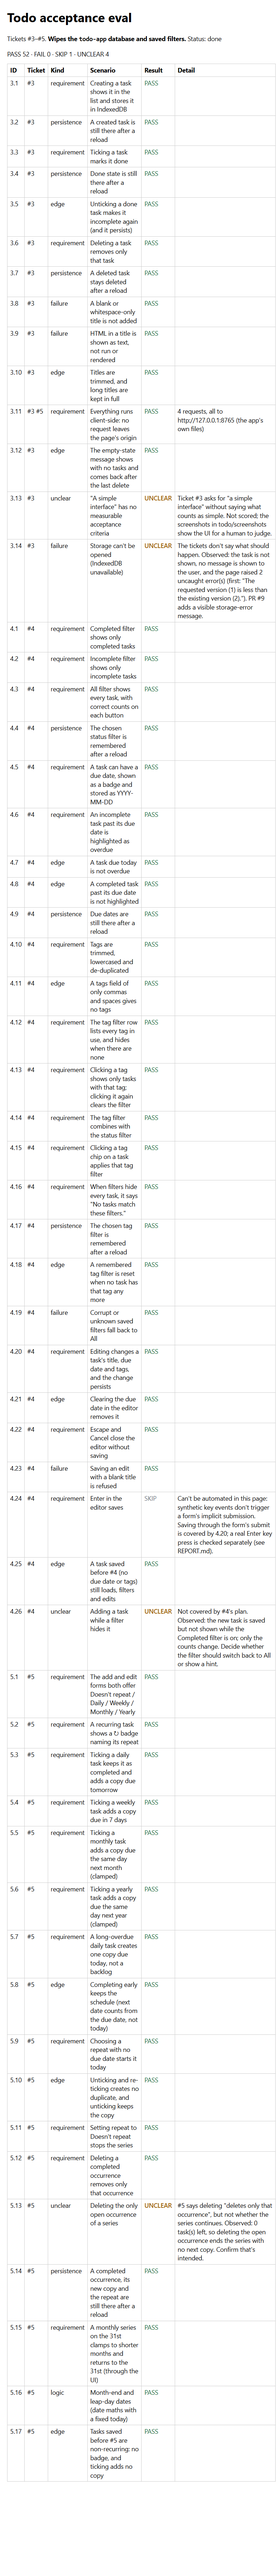
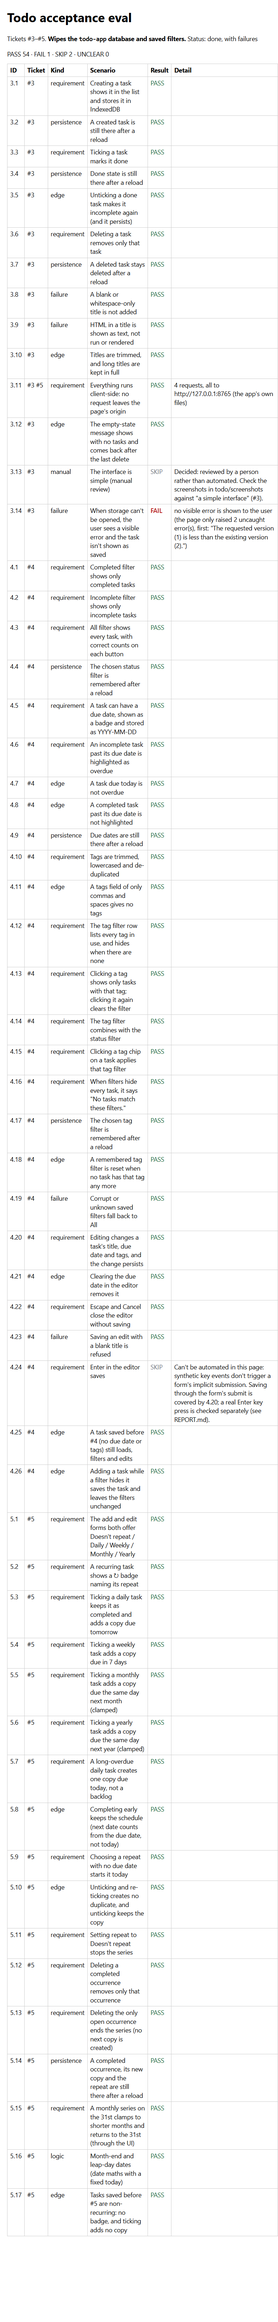
Resolve the unclear acceptance cases and rerun with PR #9 (#3, #4, #5)
- 3.13: interface simplicity is a manual review (SKIP, not scored)
- 3.14: a storage failure must show a visible error (fails on main, passes with PR #9)
- 4.26: adding a task leaves the filters unchanged
- 5.13: deleting the only open occurrence ends the series

Results: main 54 passed / 1 failed / 2 skipped / 0 unclear; PR #9 55 / 0 / 2 / 0.

diff --git a/todo/eval/acceptance.js b/todo/eval/acceptance.js
@@ -381,14 +381,16 @@ scenario("3.12", "#3", "edge", "The empty-state message shows with no tasks and 
   ok(visible($("#empty")), "empty-state message not back after deleting the last task");
 });
 
-scenario("3.13", "#3", "unclear", '"A simple interface" has no measurable acceptance criteria', async () =>
-  unclear('Ticket #3 asks for "a simple interface" without saying what counts as simple. Not scored; the screenshots in todo/screenshots show the UI for a human to judge.'));
+// Decision (27 Oct): interface simplicity is reviewed by a person, not scored here.
+scenario("3.13", "#3", "manual", 'The interface is simple (manual review)', async () =>
+  skip('Decided: reviewed by a person rather than automated. Check the screenshots in todo/screenshots against "a simple interface" (#3).'));
 
+// Decision (27 Oct): a storage failure must show the user a visible error.
 scenario(
   "3.14",
   "#3",
   "failure",
-  "Storage can't be opened (IndexedDB unavailable)",
+  "When storage can't be opened, the user sees a visible error and the task isn't shown as saved",
   async () => {
     unloadApp();
     await deleteDb();
@@ -407,14 +409,20 @@ scenario(
       await loadApp({ waitRender: false });
       $("#new-task-title").value = "Will this save?";
       $("#new-task").requestSubmit();
-      await waitFor(() => frameErrors.length > 0, "the storage error to surface");
-      const message = /error|could not|couldn't|failed|unavailable|storage/i.test(doc.body.innerText);
-      const shown = titles().includes("Will this save?");
-      return unclear(
-        `The tickets don't say what should happen. Observed: the task ${shown ? "is" : "is not"} shown, ` +
-          `${message ? "a" : "no"} message is shown to the user, and the page raised ${frameErrors.length} uncaught error(s) ` +
-          `(first: "${frameErrors[0]}"). PR #9 adds a visible storage-error message.`
-      );
+      await waitFor(() => frameErrors.length > 0, "the storage failure to happen");
+      const errorShown = () =>
+        $$('[role="alert"]').some((e) => !e.hidden && e.textContent.trim()) ||
+        /could not|couldn't|failed|unavailable|blocking storage/i.test(doc.body.innerText);
+      let visibleError = true;
+      try {
+        await waitFor(errorShown, "a visible error message", 2000);
+      } catch {
+        visibleError = false;
+      }
+      ok(!titles().includes("Will this save?"), "the unsaved task is shown as if it had been saved");
+      ok(visibleError, `no visible error is shown to the user (the page only raised ${frameErrors.length} uncaught error(s), first: "${frameErrors[0]}")`);
+      const text = $$('[role="alert"]').find((e) => !e.hidden)?.textContent.trim();
+      return { status: "PASS", detail: text ? `Shown: "${text}"` : "" };
     } finally {
       unloadApp();
       await deleteDb();
@@ -641,18 +649,19 @@ scenario("4.25", "#4", "edge", "A task saved before #4 (no due date or tags) sti
   eq((await dbAll())[0].tags, ["old"], "stored tags after edit");
 });
 
-scenario("4.26", "#4", "unclear", "Adding a task while a filter hides it", async () => {
+// Decision (27 Oct): adding a task leaves the chosen filters as they are.
+scenario("4.26", "#4", "edge", "Adding a task while a filter hides it saves the task and leaves the filters unchanged", async () => {
   await reset();
-  await add("Done one");
+  await add("Done one", { tags: "work" });
   await toggle("Done one");
   await showStatus("completed");
-  await add("New one");
-  const stored = byTitle(await dbAll(), "New one").length === 1;
-  const shown = titles().includes("New one");
-  return unclear(
-    `Not covered by #4's plan. Observed: the new task is ${stored ? "saved" : "NOT saved"} but ${shown ? "shown" : "not shown"} ` +
-      `while the Completed filter is on; only the counts change. Decide whether the filter should switch back to All or show a hint.`
-  );
+  await clickTagFilter("work");
+  await add("New one", { tags: "home" });
+  eq(byTitle(await dbAll(), "New one").length, 1, "stored copies of the new task");
+  eq(JSON.parse(localStorage.getItem(FILTERS_KEY)), { status: "completed", tag: "work" }, "saved filters");
+  eq($('[data-status="completed"]').getAttribute("aria-pressed"), "true", "Completed still pressed");
+  eq(titles(), ["Done one"], "list (the new task stays hidden by the filters)");
+  eq(countOf("all"), 2, "All count");
 });
 
 // ===== #5: recurring tasks =====
@@ -747,15 +756,13 @@ scenario("5.12", "#5", "requirement", "Deleting a completed occurrence removes o
   eq(left.map((t) => ({ done: t.done, dueDate: t.dueDate })), [{ done: false, dueDate: dayOffset(7) }], "remaining occurrences");
 });
 
-scenario("5.13", "#5", "unclear", "Deleting the only open occurrence of a series", async () => {
+// Decision (27 Oct): deleting the open occurrence ends the series.
+scenario("5.13", "#5", "requirement", "Deleting the only open occurrence ends the series (no next copy is created)", async () => {
   await reset();
   await add("Rent", { due: dayOffset(0), repeat: "monthly" });
   await remove("Rent");
-  const left = byTitle(await dbAll(), "Rent").length;
-  return unclear(
-    `#5 says deleting "deletes only that occurrence", but not whether the series continues. Observed: ${left} task(s) left, ` +
-      `so deleting the open occurrence ends the series with no next copy. Confirm that's intended.`
-  );
+  eq(byTitle(await dbAll(), "Rent").length, 0, "tasks titled 'Rent' after deleting");
+  eq(titles(), [], "list");
 });
 
 scenario("5.14", "#5", "persistence", "A completed occurrence, its new copy and the repeat are still there after a reload", async () => {

diff --git a/todo/eval/REPORT.md b/todo/eval/REPORT.md
@@ -20,7 +20,7 @@ Then open http://localhost:8000/eval/acceptance.html. **It wipes the `todo-app` 
 - **Four outcomes:**
   - **PASS / FAIL:** scored.
   - **SKIP:** can't be automated here; the reason is given.
-  - **UNCLEAR:** the tickets don't define the expected behaviour. The eval records what the app does and flags it for a decision rather than guessing.
+  - **UNCLEAR:** the tickets don't define the expected behaviour. The eval records what the app does and flags it for a decision rather than guessing. All four unclear cases from the first run have since been decided (see [Decisions](#decisions)), so none are left.
 
 ## Does the eval catch bugs?
 
@@ -29,101 +29,117 @@ I broke the app on purpose (temporarily, not committed) and reran the eval in a 
 - daily repeats stepping 2 days;
 - tasks due today marked overdue.
 
-It caught all three: 5 scenarios failed (4.7, 4.10, 4.20, 5.3, 5.7). With the app restored, it went back to 52 passed and 0 failed.
+It caught all three: 5 scenarios failed (4.7, 4.10, 4.20, 5.3, 5.7). With the app restored, it went back to 0 failed. (This was before the decisions below, when 3.14 was still flagged as unclear.)
 
 ## Checked by hand: Enter key (4.24)
 
 Synthetic key events don't submit forms, so I checked this in Chrome with real key presses through chrome-devtools. Pressing Enter in the add form added the task, and pressing Enter in the edit form saved the new title.
 
-## Results
-Run 2026-10-27T05:29:24Z in Chrome/154.0.0.0, 5.1 s.
+## Decisions
 
-**52 passed · 0 failed · 1 skipped · 4 unclear** (57 scenarios)
+The first run flagged four requirements as unclear. They were decided on 27 Oct 2026, and the eval now checks them:
 
-### Passed (52)
-
-| ID | Ticket | Kind | Scenario | Detail |
-|---|---|---|---|---|
-| 3.1 | [#3](https://github.com/karachiwaladev/contour-jonas-oct-2026-eng-muneeb-hasan/issues/3) | requirement | Creating a task shows it in the list and stores it in IndexedDB |  |
-| 3.2 | [#3](https://github.com/karachiwaladev/contour-jonas-oct-2026-eng-muneeb-hasan/issues/3) | persistence | A created task is still there after a reload |  |
-| 3.3 | [#3](https://github.com/karachiwaladev/contour-jonas-oct-2026-eng-muneeb-hasan/issues/3) | requirement | Ticking a task marks it done |  |
-| 3.4 | [#3](https://github.com/karachiwaladev/contour-jonas-oct-2026-eng-muneeb-hasan/issues/3) | persistence | Done state is still there after a reload |  |
-| 3.5 | [#3](https://github.com/karachiwaladev/contour-jonas-oct-2026-eng-muneeb-hasan/issues/3) | edge | Unticking a done task makes it incomplete again (and it persists) |  |
-| 3.6 | [#3](https://github.com/karachiwaladev/contour-jonas-oct-2026-eng-muneeb-hasan/issues/3) | requirement | Deleting a task removes only that task |  |
-| 3.7 | [#3](https://github.com/karachiwaladev/contour-jonas-oct-2026-eng-muneeb-hasan/issues/3) | persistence | A deleted task stays deleted after a reload |  |
-| 3.8 | [#3](https://github.com/karachiwaladev/contour-jonas-oct-2026-eng-muneeb-hasan/issues/3) | failure | A blank or whitespace-only title is not added |  |
-| 3.9 | [#3](https://github.com/karachiwaladev/contour-jonas-oct-2026-eng-muneeb-hasan/issues/3) | failure | HTML in a title is shown as text, not run or rendered |  |
-| 3.10 | [#3](https://github.com/karachiwaladev/contour-jonas-oct-2026-eng-muneeb-hasan/issues/3) | edge | Titles are trimmed, and long titles are kept in full |  |
-| 3.11 | [#3](https://github.com/karachiwaladev/contour-jonas-oct-2026-eng-muneeb-hasan/issues/3) [#5](https://github.com/karachiwaladev/contour-jonas-oct-2026-eng-muneeb-hasan/issues/5) | requirement | Everything runs client-side: no request leaves the page's origin | 4 requests, all to http://127.0.0.1:8765 (the app's own files) |
-| 3.12 | [#3](https://github.com/karachiwaladev/contour-jonas-oct-2026-eng-muneeb-hasan/issues/3) | edge | The empty-state message shows with no tasks and comes back after the last delete |  |
-| 4.1 | [#4](https://github.com/karachiwaladev/contour-jonas-oct-2026-eng-muneeb-hasan/issues/4) | requirement | Completed filter shows only completed tasks |  |
-| 4.2 | [#4](https://github.com/karachiwaladev/contour-jonas-oct-2026-eng-muneeb-hasan/issues/4) | requirement | Incomplete filter shows only incomplete tasks |  |
-| 4.3 | [#4](https://github.com/karachiwaladev/contour-jonas-oct-2026-eng-muneeb-hasan/issues/4) | requirement | All filter shows every task, with correct counts on each button |  |
-| 4.4 | [#4](https://github.com/karachiwaladev/contour-jonas-oct-2026-eng-muneeb-hasan/issues/4) | persistence | The chosen status filter is remembered after a reload |  |
-| 4.5 | [#4](https://github.com/karachiwaladev/contour-jonas-oct-2026-eng-muneeb-hasan/issues/4) | requirement | A task can have a due date, shown as a badge and stored as YYYY-MM-DD |  |
-| 4.6 | [#4](https://github.com/karachiwaladev/contour-jonas-oct-2026-eng-muneeb-hasan/issues/4) | requirement | An incomplete task past its due date is highlighted as overdue |  |
-| 4.7 | [#4](https://github.com/karachiwaladev/contour-jonas-oct-2026-eng-muneeb-hasan/issues/4) | edge | A task due today is not overdue |  |
-| 4.8 | [#4](https://github.com/karachiwaladev/contour-jonas-oct-2026-eng-muneeb-hasan/issues/4) | edge | A completed task past its due date is not highlighted |  |
-| 4.9 | [#4](https://github.com/karachiwaladev/contour-jonas-oct-2026-eng-muneeb-hasan/issues/4) | persistence | Due dates are still there after a reload |  |
-| 4.10 | [#4](https://github.com/karachiwaladev/contour-jonas-oct-2026-eng-muneeb-hasan/issues/4) | requirement | Tags are trimmed, lowercased and de-duplicated |  |
-| 4.11 | [#4](https://github.com/karachiwaladev/contour-jonas-oct-2026-eng-muneeb-hasan/issues/4) | edge | A tags field of only commas and spaces gives no tags |  |
-| 4.12 | [#4](https://github.com/karachiwaladev/contour-jonas-oct-2026-eng-muneeb-hasan/issues/4) | requirement | The tag filter row lists every tag in use, and hides when there are none |  |
-| 4.13 | [#4](https://github.com/karachiwaladev/contour-jonas-oct-2026-eng-muneeb-hasan/issues/4) | requirement | Clicking a tag shows only tasks with that tag; clicking it again clears the filter |  |
-| 4.14 | [#4](https://github.com/karachiwaladev/contour-jonas-oct-2026-eng-muneeb-hasan/issues/4) | requirement | The tag filter combines with the status filter |  |
-| 4.15 | [#4](https://github.com/karachiwaladev/contour-jonas-oct-2026-eng-muneeb-hasan/issues/4) | requirement | Clicking a tag chip on a task applies that tag filter |  |
-| 4.16 | [#4](https://github.com/karachiwaladev/contour-jonas-oct-2026-eng-muneeb-hasan/issues/4) | requirement | When filters hide every task, it says "No tasks match these filters." |  |
-| 4.17 | [#4](https://github.com/karachiwaladev/contour-jonas-oct-2026-eng-muneeb-hasan/issues/4) | persistence | The chosen tag filter is remembered after a reload |  |
-| 4.18 | [#4](https://github.com/karachiwaladev/contour-jonas-oct-2026-eng-muneeb-hasan/issues/4) | edge | A remembered tag filter is reset when no task has that tag any more |  |
-| 4.19 | [#4](https://github.com/karachiwaladev/contour-jonas-oct-2026-eng-muneeb-hasan/issues/4) | failure | Corrupt or unknown saved filters fall back to All |  |
-| 4.20 | [#4](https://github.com/karachiwaladev/contour-jonas-oct-2026-eng-muneeb-hasan/issues/4) | requirement | Editing changes a task's title, due date and tags, and the change persists |  |
-| 4.21 | [#4](https://github.com/karachiwaladev/contour-jonas-oct-2026-eng-muneeb-hasan/issues/4) | edge | Clearing the due date in the editor removes it |  |
-| 4.22 | [#4](https://github.com/karachiwaladev/contour-jonas-oct-2026-eng-muneeb-hasan/issues/4) | requirement | Escape and Cancel close the editor without saving |  |
-| 4.23 | [#4](https://github.com/karachiwaladev/contour-jonas-oct-2026-eng-muneeb-hasan/issues/4) | failure | Saving an edit with a blank title is refused |  |
-| 4.25 | [#4](https://github.com/karachiwaladev/contour-jonas-oct-2026-eng-muneeb-hasan/issues/4) | edge | A task saved before #4 (no due date or tags) still loads, filters and edits |  |
-| 5.1 | [#5](https://github.com/karachiwaladev/contour-jonas-oct-2026-eng-muneeb-hasan/issues/5) | requirement | The add and edit forms both offer Doesn't repeat / Daily / Weekly / Monthly / Yearly |  |
-| 5.2 | [#5](https://github.com/karachiwaladev/contour-jonas-oct-2026-eng-muneeb-hasan/issues/5) | requirement | A recurring task shows a ↻ badge naming its repeat |  |
-| 5.3 | [#5](https://github.com/karachiwaladev/contour-jonas-oct-2026-eng-muneeb-hasan/issues/5) | requirement | Ticking a daily task keeps it as completed and adds a copy due tomorrow |  |
-| 5.4 | [#5](https://github.com/karachiwaladev/contour-jonas-oct-2026-eng-muneeb-hasan/issues/5) | requirement | Ticking a weekly task adds a copy due in 7 days |  |
-| 5.5 | [#5](https://github.com/karachiwaladev/contour-jonas-oct-2026-eng-muneeb-hasan/issues/5) | requirement | Ticking a monthly task adds a copy due the same day next month (clamped) |  |
-| 5.6 | [#5](https://github.com/karachiwaladev/contour-jonas-oct-2026-eng-muneeb-hasan/issues/5) | requirement | Ticking a yearly task adds a copy due the same day next year (clamped) |  |
-| 5.7 | [#5](https://github.com/karachiwaladev/contour-jonas-oct-2026-eng-muneeb-hasan/issues/5) | requirement | A long-overdue daily task creates one copy due today, not a backlog |  |
-| 5.8 | [#5](https://github.com/karachiwaladev/contour-jonas-oct-2026-eng-muneeb-hasan/issues/5) | edge | Completing early keeps the schedule (next date counts from the due date, not today) |  |
-| 5.9 | [#5](https://github.com/karachiwaladev/contour-jonas-oct-2026-eng-muneeb-hasan/issues/5) | requirement | Choosing a repeat with no due date starts it today |  |
-| 5.10 | [#5](https://github.com/karachiwaladev/contour-jonas-oct-2026-eng-muneeb-hasan/issues/5) | edge | Unticking and re-ticking creates no duplicate, and unticking keeps the copy |  |
-| 5.11 | [#5](https://github.com/karachiwaladev/contour-jonas-oct-2026-eng-muneeb-hasan/issues/5) | requirement | Setting repeat to Doesn't repeat stops the series |  |
-| 5.12 | [#5](https://github.com/karachiwaladev/contour-jonas-oct-2026-eng-muneeb-hasan/issues/5) | requirement | Deleting a completed occurrence removes only that occurrence |  |
-| 5.14 | [#5](https://github.com/karachiwaladev/contour-jonas-oct-2026-eng-muneeb-hasan/issues/5) | persistence | A completed occurrence, its new copy and the repeat are still there after a reload |  |
-| 5.15 | [#5](https://github.com/karachiwaladev/contour-jonas-oct-2026-eng-muneeb-hasan/issues/5) | requirement | A monthly series on the 31st clamps to shorter months and returns to the 31st (through the UI) |  |
-| 5.16 | [#5](https://github.com/karachiwaladev/contour-jonas-oct-2026-eng-muneeb-hasan/issues/5) | logic | Month-end and leap-day dates (date maths with a fixed today) |  |
-| 5.17 | [#5](https://github.com/karachiwaladev/contour-jonas-oct-2026-eng-muneeb-hasan/issues/5) | edge | Tasks saved before #5 are non-recurring: no badge, and ticking adds no copy |  |
-
-### Failed (0)
-
-None.
-
-### Skipped (1)
-
-| ID | Ticket | Kind | Scenario | Detail |
-|---|---|---|---|---|
-| 4.24 | [#4](https://github.com/karachiwaladev/contour-jonas-oct-2026-eng-muneeb-hasan/issues/4) | requirement | Enter in the editor saves | Can't be automated in this page: synthetic key events don't trigger a form's implicit submission. Saving through the form's submit is covered by 4.20; a real Enter key press is checked separately (see REPORT.md). |
-
-### Unclear requirements (flagged, not scored) (4)
-
-| ID | Ticket | Kind | Scenario | Detail |
-|---|---|---|---|---|
-| 3.13 | [#3](https://github.com/karachiwaladev/contour-jonas-oct-2026-eng-muneeb-hasan/issues/3) | unclear | "A simple interface" has no measurable acceptance criteria | Ticket #3 asks for "a simple interface" without saying what counts as simple. Not scored; the screenshots in todo/screenshots show the UI for a human to judge. |
-| 3.14 | [#3](https://github.com/karachiwaladev/contour-jonas-oct-2026-eng-muneeb-hasan/issues/3) | failure | Storage can't be opened (IndexedDB unavailable) | The tickets don't say what should happen. Observed: the task is not shown, no message is shown to the user, and the page raised 2 uncaught error(s) (first: "The requested version (1) is less than the existing version (2)."). PR #9 adds a visible storage-error message. |
-| 4.26 | [#4](https://github.com/karachiwaladev/contour-jonas-oct-2026-eng-muneeb-hasan/issues/4) | unclear | Adding a task while a filter hides it | Not covered by #4's plan. Observed: the new task is saved but not shown while the Completed filter is on; only the counts change. Decide whether the filter should switch back to All or show a hint. |
-| 5.13 | [#5](https://github.com/karachiwaladev/contour-jonas-oct-2026-eng-muneeb-hasan/issues/5) | unclear | Deleting the only open occurrence of a series | #5 says deleting "deletes only that occurrence", but not whether the series continues. Observed: 0 task(s) left, so deleting the open occurrence ends the series with no next copy. Confirm that's intended. |
-
-## Unclear requirements (need a decision)
-
-| ID | Question | What the app does now |
+| ID | Decision | What the eval now checks |
 |---|---|---|
-| 3.13 | What counts as "a simple interface" (#3)? | Not measurable. Judge from the screenshots in `todo/screenshots/`. |
-| 3.14 | What should happen when storage can't be opened? | Nothing visible: the task isn't saved, there's no message, and the page throws uncaught errors. PR #9 adds a visible storage-error message. |
-| 4.26 | Adding a task while a filter hides it: should the filter reset? | The task is saved but stays hidden; only the counts change. |
-| 5.13 | Deleting the only open occurrence of a series: should the series continue? | It ends the series. No next copy is created. |
+| 3.13 | Interface simplicity is reviewed by a person. | Reported as SKIP (not scored), pointing to the screenshots in `todo/screenshots/`. |
+| 3.14 | A storage failure must show a visible error. | With IndexedDB unopenable, adding a task must show a visible message (a visible `role="alert"` element, or text like "couldn't" / "failed"), and must not show the task as if it had been saved. FAIL otherwise. |
+| 4.26 | Adding a task leaves the filters unchanged. | With Completed + a tag filter on, adding a task saves it, keeps both filters (on screen and in `localStorage`), keeps it hidden and updates the counts. |
+| 5.13 | Deleting the open occurrence ends the series. | After deleting the only occurrence of a monthly task, no task is left and no next copy is created. |
+
+## Results
+
+Run 2026-10-27T05:35Z in Chrome/154.0.0.0, each in a fresh isolated browser context, against two versions of the app:
+
+| App version | Passed | Failed | Skipped | Unclear |
+|---|---|---|---|---|
+| `main` (the app as merged for #3–#5) | 54 | **1** | 2 | 0 |
+| PR #9 (`factory/test-hardening` @ `2b7381b`, adds storage-error messages) | **55** | 0 | 2 | 0 |
+
+57 scenarios. The only difference is 3.14:
+- On `main`, a storage failure isn't shown to the user. The page only throws uncaught errors.
+- PR #9 shows *"Couldn't load your tasks. Your browser may be blocking storage. Reload the page to try again."* in its alert.
+
+PR #9's run logged only its own `Saving failed` / `Loading failed` errors from 3.14, plus a 404 for `/favicon.ico`.
+
+Screenshots: [`main`](../screenshots/eval-acceptance-results.png) · [PR #9](../screenshots/eval-acceptance-results-pr9.png)
+
+### Failed (1 on `main`, 0 on PR #9)
+
+| ID | Ticket | Kind | Scenario | Detail (`main`) |
+|---|---|---|---|---|
+| 3.14 | [#3](https://github.com/karachiwaladev/contour-jonas-oct-2026-eng-muneeb-hasan/issues/3) | failure | When storage can't be opened, the user sees a visible error and the task isn't shown as saved | no visible error is shown to the user (the page only raised 2 uncaught error(s), first: "The requested version (1) is less than the existing version (2).") |
+
+### Skipped (2, both versions)
+
+| ID | Ticket | Kind | Scenario | Detail |
+|---|---|---|---|---|
+| 3.13 | [#3](https://github.com/karachiwaladev/contour-jonas-oct-2026-eng-muneeb-hasan/issues/3) | manual | The interface is simple (manual review) | Decided: reviewed by a person rather than automated. Check the screenshots in todo/screenshots against "a simple interface" (#3). |
+| 4.24 | [#4](https://github.com/karachiwaladev/contour-jonas-oct-2026-eng-muneeb-hasan/issues/4) | requirement | Enter in the editor saves | Can't be automated in this page: synthetic key events don't trigger a form's implicit submission. Saving through the form's submit is covered by 4.20; a real Enter key press is checked separately (see above). |
+
+### Unclear (0)
+
+None. All four have been decided (see [Decisions](#decisions)).
+
+### Passed (54 on `main`, 55 on PR #9)
+
+All the scenarios not listed above passed on both versions, and 3.14 passed on PR #9 as well:
+
+| ID | Ticket | Kind | Scenario |
+|---|---|---|---|
+| 3.1 | [#3](https://github.com/karachiwaladev/contour-jonas-oct-2026-eng-muneeb-hasan/issues/3) | requirement | Creating a task shows it in the list and stores it in IndexedDB |
+| 3.2 | [#3](https://github.com/karachiwaladev/contour-jonas-oct-2026-eng-muneeb-hasan/issues/3) | persistence | A created task is still there after a reload |
+| 3.3 | [#3](https://github.com/karachiwaladev/contour-jonas-oct-2026-eng-muneeb-hasan/issues/3) | requirement | Ticking a task marks it done |
+| 3.4 | [#3](https://github.com/karachiwaladev/contour-jonas-oct-2026-eng-muneeb-hasan/issues/3) | persistence | Done state is still there after a reload |
+| 3.5 | [#3](https://github.com/karachiwaladev/contour-jonas-oct-2026-eng-muneeb-hasan/issues/3) | edge | Unticking a done task makes it incomplete again (and it persists) |
+| 3.6 | [#3](https://github.com/karachiwaladev/contour-jonas-oct-2026-eng-muneeb-hasan/issues/3) | requirement | Deleting a task removes only that task |
+| 3.7 | [#3](https://github.com/karachiwaladev/contour-jonas-oct-2026-eng-muneeb-hasan/issues/3) | persistence | A deleted task stays deleted after a reload |
+| 3.8 | [#3](https://github.com/karachiwaladev/contour-jonas-oct-2026-eng-muneeb-hasan/issues/3) | failure | A blank or whitespace-only title is not added |
+| 3.9 | [#3](https://github.com/karachiwaladev/contour-jonas-oct-2026-eng-muneeb-hasan/issues/3) | failure | HTML in a title is shown as text, not run or rendered |
+| 3.10 | [#3](https://github.com/karachiwaladev/contour-jonas-oct-2026-eng-muneeb-hasan/issues/3) | edge | Titles are trimmed, and long titles are kept in full |
+| 3.11 | [#3](https://github.com/karachiwaladev/contour-jonas-oct-2026-eng-muneeb-hasan/issues/3) [#5](https://github.com/karachiwaladev/contour-jonas-oct-2026-eng-muneeb-hasan/issues/5) | requirement | Everything runs client-side: no request leaves the page's origin |
+| 3.12 | [#3](https://github.com/karachiwaladev/contour-jonas-oct-2026-eng-muneeb-hasan/issues/3) | edge | The empty-state message shows with no tasks and comes back after the last delete |
+| 4.1 | [#4](https://github.com/karachiwaladev/contour-jonas-oct-2026-eng-muneeb-hasan/issues/4) | requirement | Completed filter shows only completed tasks |
+| 4.2 | [#4](https://github.com/karachiwaladev/contour-jonas-oct-2026-eng-muneeb-hasan/issues/4) | requirement | Incomplete filter shows only incomplete tasks |
+| 4.3 | [#4](https://github.com/karachiwaladev/contour-jonas-oct-2026-eng-muneeb-hasan/issues/4) | requirement | All filter shows every task, with correct counts on each button |
+| 4.4 | [#4](https://github.com/karachiwaladev/contour-jonas-oct-2026-eng-muneeb-hasan/issues/4) | persistence | The chosen status filter is remembered after a reload |
+| 4.5 | [#4](https://github.com/karachiwaladev/contour-jonas-oct-2026-eng-muneeb-hasan/issues/4) | requirement | A task can have a due date, shown as a badge and stored as YYYY-MM-DD |
+| 4.6 | [#4](https://github.com/karachiwaladev/contour-jonas-oct-2026-eng-muneeb-hasan/issues/4) | requirement | An incomplete task past its due date is highlighted as overdue |
+| 4.7 | [#4](https://github.com/karachiwaladev/contour-jonas-oct-2026-eng-muneeb-hasan/issues/4) | edge | A task due today is not overdue |
+| 4.8 | [#4](https://github.com/karachiwaladev/contour-jonas-oct-2026-eng-muneeb-hasan/issues/4) | edge | A completed task past its due date is not highlighted |
+| 4.9 | [#4](https://github.com/karachiwaladev/contour-jonas-oct-2026-eng-muneeb-hasan/issues/4) | persistence | Due dates are still there after a reload |
+| 4.10 | [#4](https://github.com/karachiwaladev/contour-jonas-oct-2026-eng-muneeb-hasan/issues/4) | requirement | Tags are trimmed, lowercased and de-duplicated |
+| 4.11 | [#4](https://github.com/karachiwaladev/contour-jonas-oct-2026-eng-muneeb-hasan/issues/4) | edge | A tags field of only commas and spaces gives no tags |
+| 4.12 | [#4](https://github.com/karachiwaladev/contour-jonas-oct-2026-eng-muneeb-hasan/issues/4) | requirement | The tag filter row lists every tag in use, and hides when there are none |
+| 4.13 | [#4](https://github.com/karachiwaladev/contour-jonas-oct-2026-eng-muneeb-hasan/issues/4) | requirement | Clicking a tag shows only tasks with that tag; clicking it again clears the filter |
+| 4.14 | [#4](https://github.com/karachiwaladev/contour-jonas-oct-2026-eng-muneeb-hasan/issues/4) | requirement | The tag filter combines with the status filter |
+| 4.15 | [#4](https://github.com/karachiwaladev/contour-jonas-oct-2026-eng-muneeb-hasan/issues/4) | requirement | Clicking a tag chip on a task applies that tag filter |
+| 4.16 | [#4](https://github.com/karachiwaladev/contour-jonas-oct-2026-eng-muneeb-hasan/issues/4) | requirement | When filters hide every task, it says "No tasks match these filters." |
+| 4.17 | [#4](https://github.com/karachiwaladev/contour-jonas-oct-2026-eng-muneeb-hasan/issues/4) | persistence | The chosen tag filter is remembered after a reload |
+| 4.18 | [#4](https://github.com/karachiwaladev/contour-jonas-oct-2026-eng-muneeb-hasan/issues/4) | edge | A remembered tag filter is reset when no task has that tag any more |
+| 4.19 | [#4](https://github.com/karachiwaladev/contour-jonas-oct-2026-eng-muneeb-hasan/issues/4) | failure | Corrupt or unknown saved filters fall back to All |
+| 4.20 | [#4](https://github.com/karachiwaladev/contour-jonas-oct-2026-eng-muneeb-hasan/issues/4) | requirement | Editing changes a task's title, due date and tags, and the change persists |
+| 4.21 | [#4](https://github.com/karachiwaladev/contour-jonas-oct-2026-eng-muneeb-hasan/issues/4) | edge | Clearing the due date in the editor removes it |
+| 4.22 | [#4](https://github.com/karachiwaladev/contour-jonas-oct-2026-eng-muneeb-hasan/issues/4) | requirement | Escape and Cancel close the editor without saving |
+| 4.23 | [#4](https://github.com/karachiwaladev/contour-jonas-oct-2026-eng-muneeb-hasan/issues/4) | failure | Saving an edit with a blank title is refused |
+| 4.25 | [#4](https://github.com/karachiwaladev/contour-jonas-oct-2026-eng-muneeb-hasan/issues/4) | edge | A task saved before #4 (no due date or tags) still loads, filters and edits |
+| 4.26 | [#4](https://github.com/karachiwaladev/contour-jonas-oct-2026-eng-muneeb-hasan/issues/4) | edge | Adding a task while a filter hides it saves the task and leaves the filters unchanged |
+| 5.1 | [#5](https://github.com/karachiwaladev/contour-jonas-oct-2026-eng-muneeb-hasan/issues/5) | requirement | The add and edit forms both offer Doesn't repeat / Daily / Weekly / Monthly / Yearly |
+| 5.2 | [#5](https://github.com/karachiwaladev/contour-jonas-oct-2026-eng-muneeb-hasan/issues/5) | requirement | A recurring task shows a ↻ badge naming its repeat |
+| 5.3 | [#5](https://github.com/karachiwaladev/contour-jonas-oct-2026-eng-muneeb-hasan/issues/5) | requirement | Ticking a daily task keeps it as completed and adds a copy due tomorrow |
+| 5.4 | [#5](https://github.com/karachiwaladev/contour-jonas-oct-2026-eng-muneeb-hasan/issues/5) | requirement | Ticking a weekly task adds a copy due in 7 days |
+| 5.5 | [#5](https://github.com/karachiwaladev/contour-jonas-oct-2026-eng-muneeb-hasan/issues/5) | requirement | Ticking a monthly task adds a copy due the same day next month (clamped) |
+| 5.6 | [#5](https://github.com/karachiwaladev/contour-jonas-oct-2026-eng-muneeb-hasan/issues/5) | requirement | Ticking a yearly task adds a copy due the same day next year (clamped) |
+| 5.7 | [#5](https://github.com/karachiwaladev/contour-jonas-oct-2026-eng-muneeb-hasan/issues/5) | requirement | A long-overdue daily task creates one copy due today, not a backlog |
+| 5.8 | [#5](https://github.com/karachiwaladev/contour-jonas-oct-2026-eng-muneeb-hasan/issues/5) | edge | Completing early keeps the schedule (next date counts from the due date, not today) |
+| 5.9 | [#5](https://github.com/karachiwaladev/contour-jonas-oct-2026-eng-muneeb-hasan/issues/5) | requirement | Choosing a repeat with no due date starts it today |
+| 5.10 | [#5](https://github.com/karachiwaladev/contour-jonas-oct-2026-eng-muneeb-hasan/issues/5) | edge | Unticking and re-ticking creates no duplicate, and unticking keeps the copy |
+| 5.11 | [#5](https://github.com/karachiwaladev/contour-jonas-oct-2026-eng-muneeb-hasan/issues/5) | requirement | Setting repeat to Doesn't repeat stops the series |
+| 5.12 | [#5](https://github.com/karachiwaladev/contour-jonas-oct-2026-eng-muneeb-hasan/issues/5) | requirement | Deleting a completed occurrence removes only that occurrence |
+| 5.13 | [#5](https://github.com/karachiwaladev/contour-jonas-oct-2026-eng-muneeb-hasan/issues/5) | requirement | Deleting the only open occurrence ends the series (no next copy is created) |
+| 5.14 | [#5](https://github.com/karachiwaladev/contour-jonas-oct-2026-eng-muneeb-hasan/issues/5) | persistence | A completed occurrence, its new copy and the repeat are still there after a reload |
+| 5.15 | [#5](https://github.com/karachiwaladev/contour-jonas-oct-2026-eng-muneeb-hasan/issues/5) | requirement | A monthly series on the 31st clamps to shorter months and returns to the 31st (through the UI) |
+| 5.16 | [#5](https://github.com/karachiwaladev/contour-jonas-oct-2026-eng-muneeb-hasan/issues/5) | logic | Month-end and leap-day dates (date maths with a fixed today) |
+| 5.17 | [#5](https://github.com/karachiwaladev/contour-jonas-oct-2026-eng-muneeb-hasan/issues/5) | edge | Tasks saved before #5 are non-recurring: no badge, and ticking adds no copy |
 
 ## Remaining gaps (not covered by this eval)
 
@@ -133,4 +149,5 @@ None.
 - **Several tabs at once.** Two open copies of the app writing to the same database aren't covered.
 - **Other browsers.** The eval was only run in Chrome.
 - **Storage limits.** A full quota and private-mode storage limits aren't covered, beyond the "can't open" case in 3.14.
-- **CI.** The eval isn't run in CI yet. PR #9 adds a workflow for `test.html`, and this page could be added to it once that workflow can be pushed.
+- **CI.** The eval isn't run in CI yet. PR #9's workflow for `test.html` can't be pushed until the pushing token has the `workflow` scope. Once it can, this page can run in the same job. 3.14 will fail there until PR #9 is merged.
+- **Interface simplicity (3.13)** needs a person to review it.

diff --git a/todo/README.md b/todo/README.md
@@ -40,7 +40,7 @@ Then open http://localhost:8000.
 | `recurrence.js` | Pure date maths for repeats: `nextDueDate(dueDate, repeat, today, anchorDay)` |
 | `test.html` | Browser test: open http://localhost:8000/test.html. It **wipes the `todo-app` database and saved filters**, drives the UI and prints PASS/FAIL per check |
 | `eval/acceptance.html`, `eval/acceptance.js` | Acceptance eval for tickets #3–#5: open http://localhost:8000/eval/acceptance.html. One scenario per ticket requirement plus edge, failure and persistence cases, reported as pass / fail / skip / unclear. It also **wipes the `todo-app` database and saved filters** |
-| `eval/REPORT.md` | Scenarios, latest results, unclear requirements and remaining gaps |
+| `eval/REPORT.md` | Scenarios, decisions on unclear requirements, latest results (on `main` and PR #9) and remaining gaps |
 | `coverage.mjs` | Runs `test.html` in headless Chrome and reports line and function coverage (see [Test coverage](#test-coverage)) |
 | `screenshots/` | Screenshots from the in-browser check of each ticket |
 
